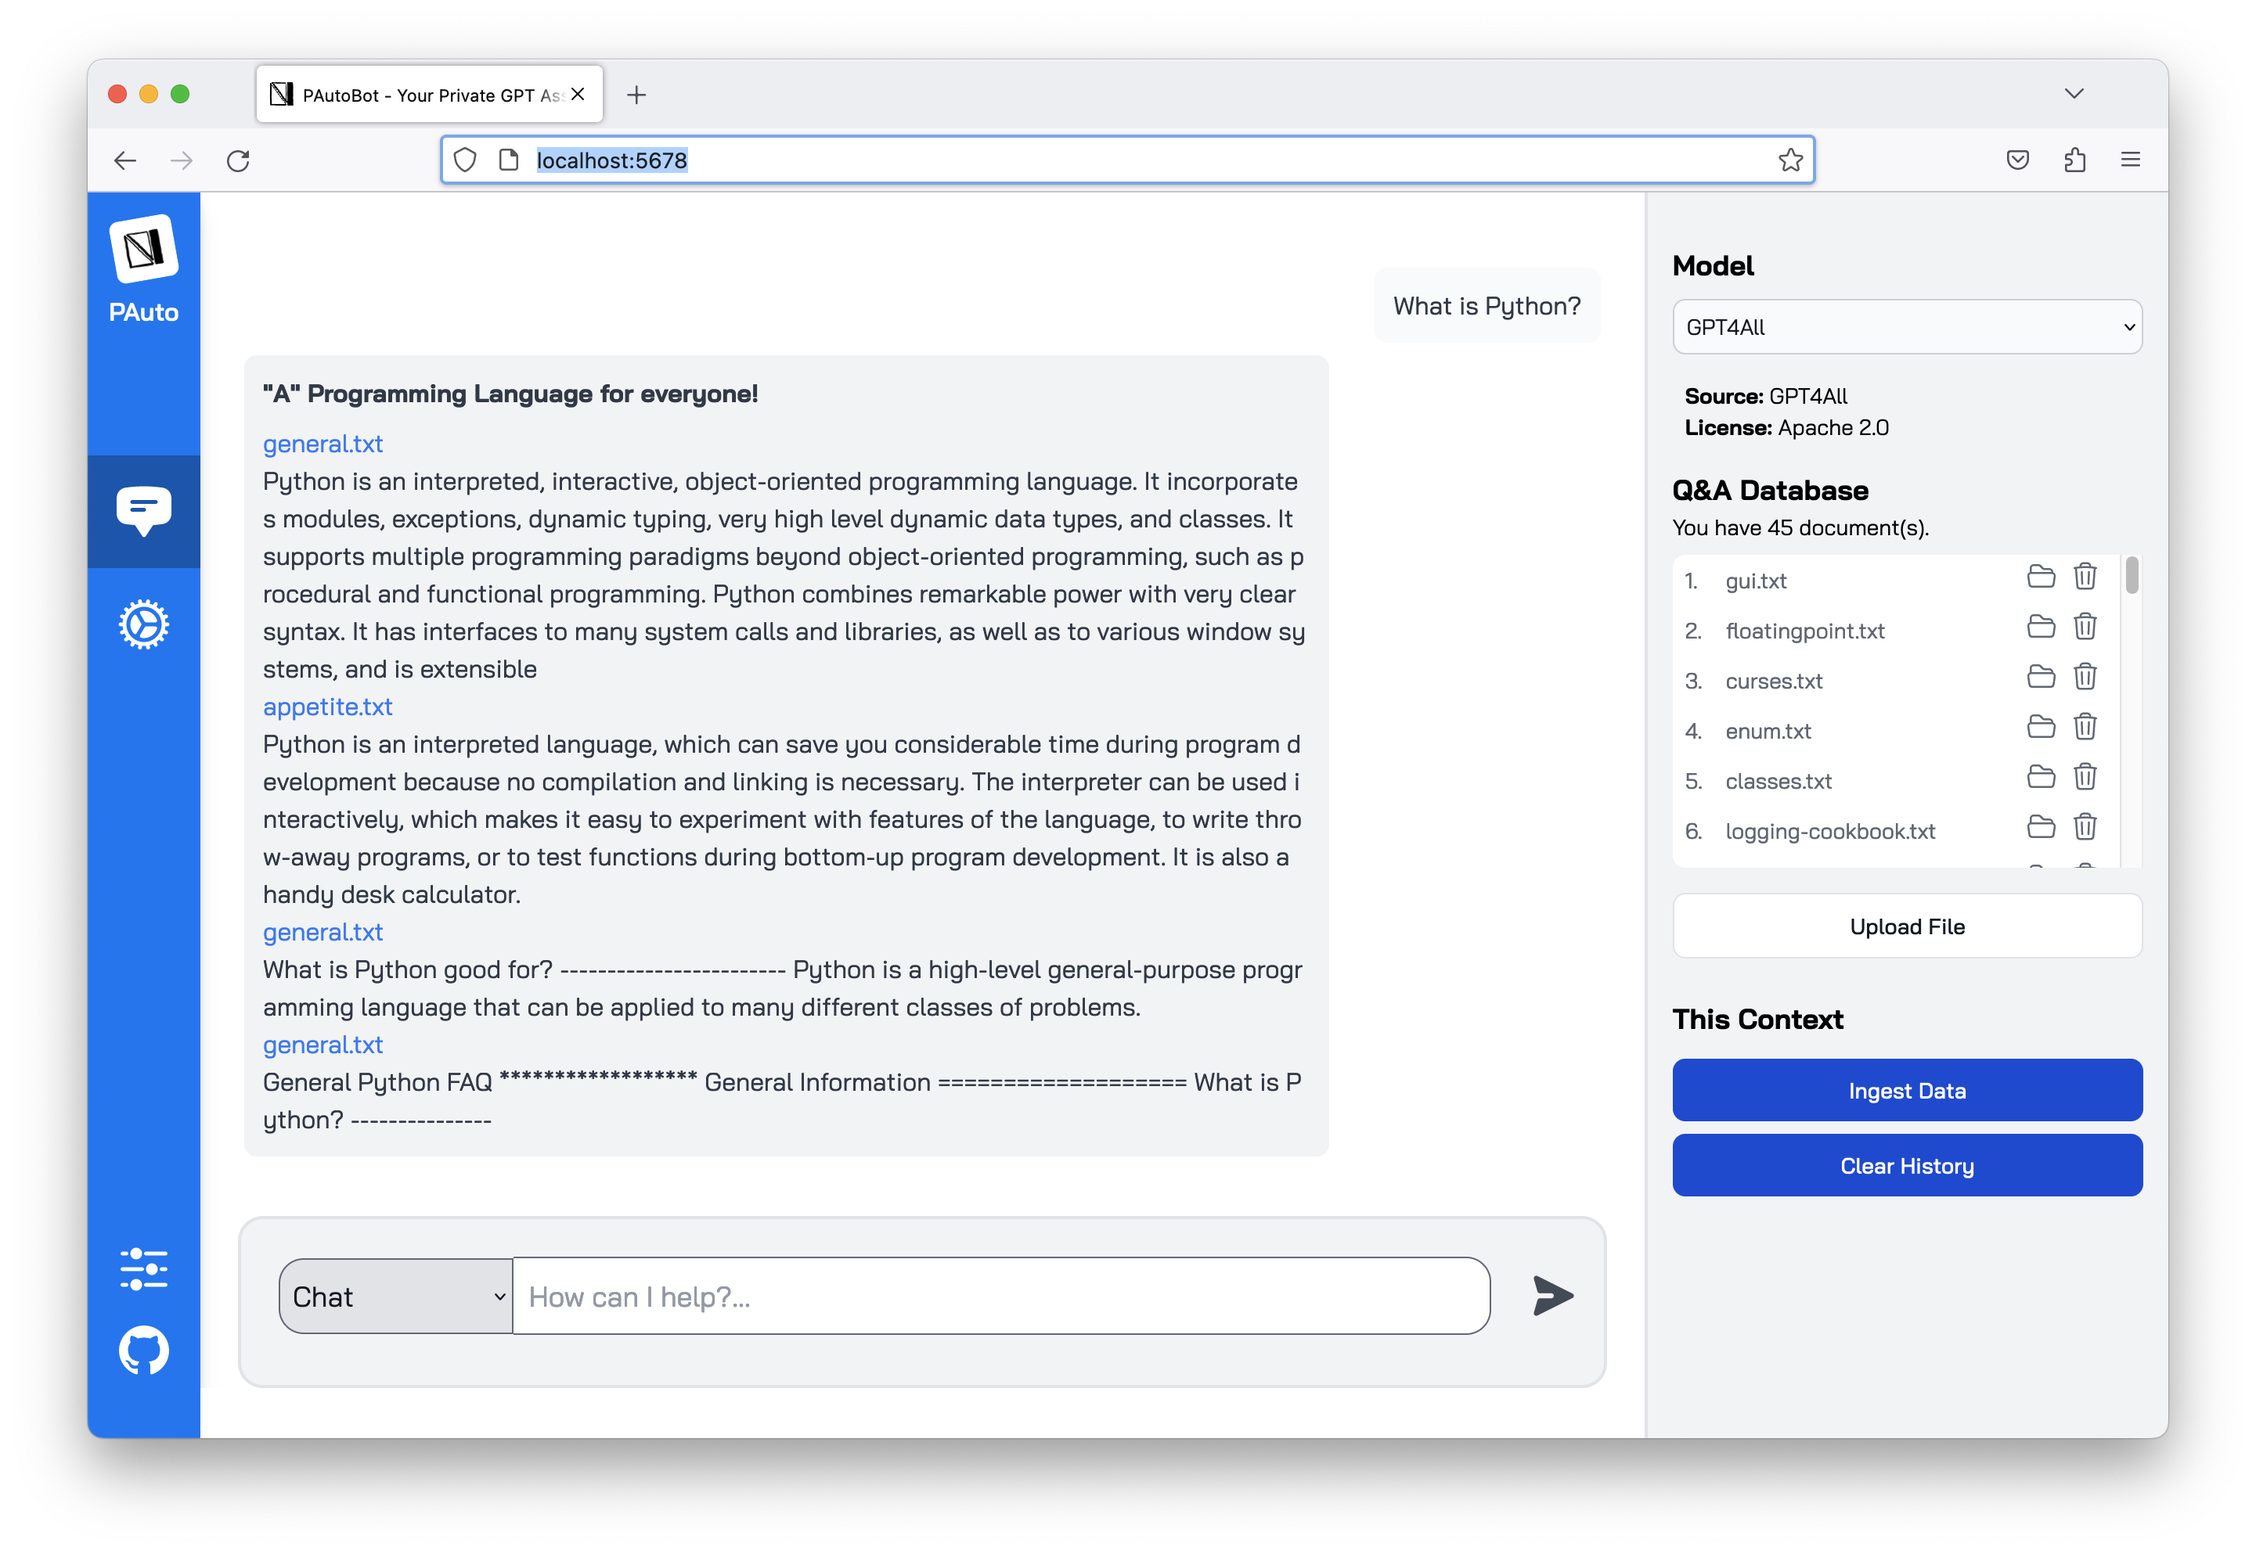
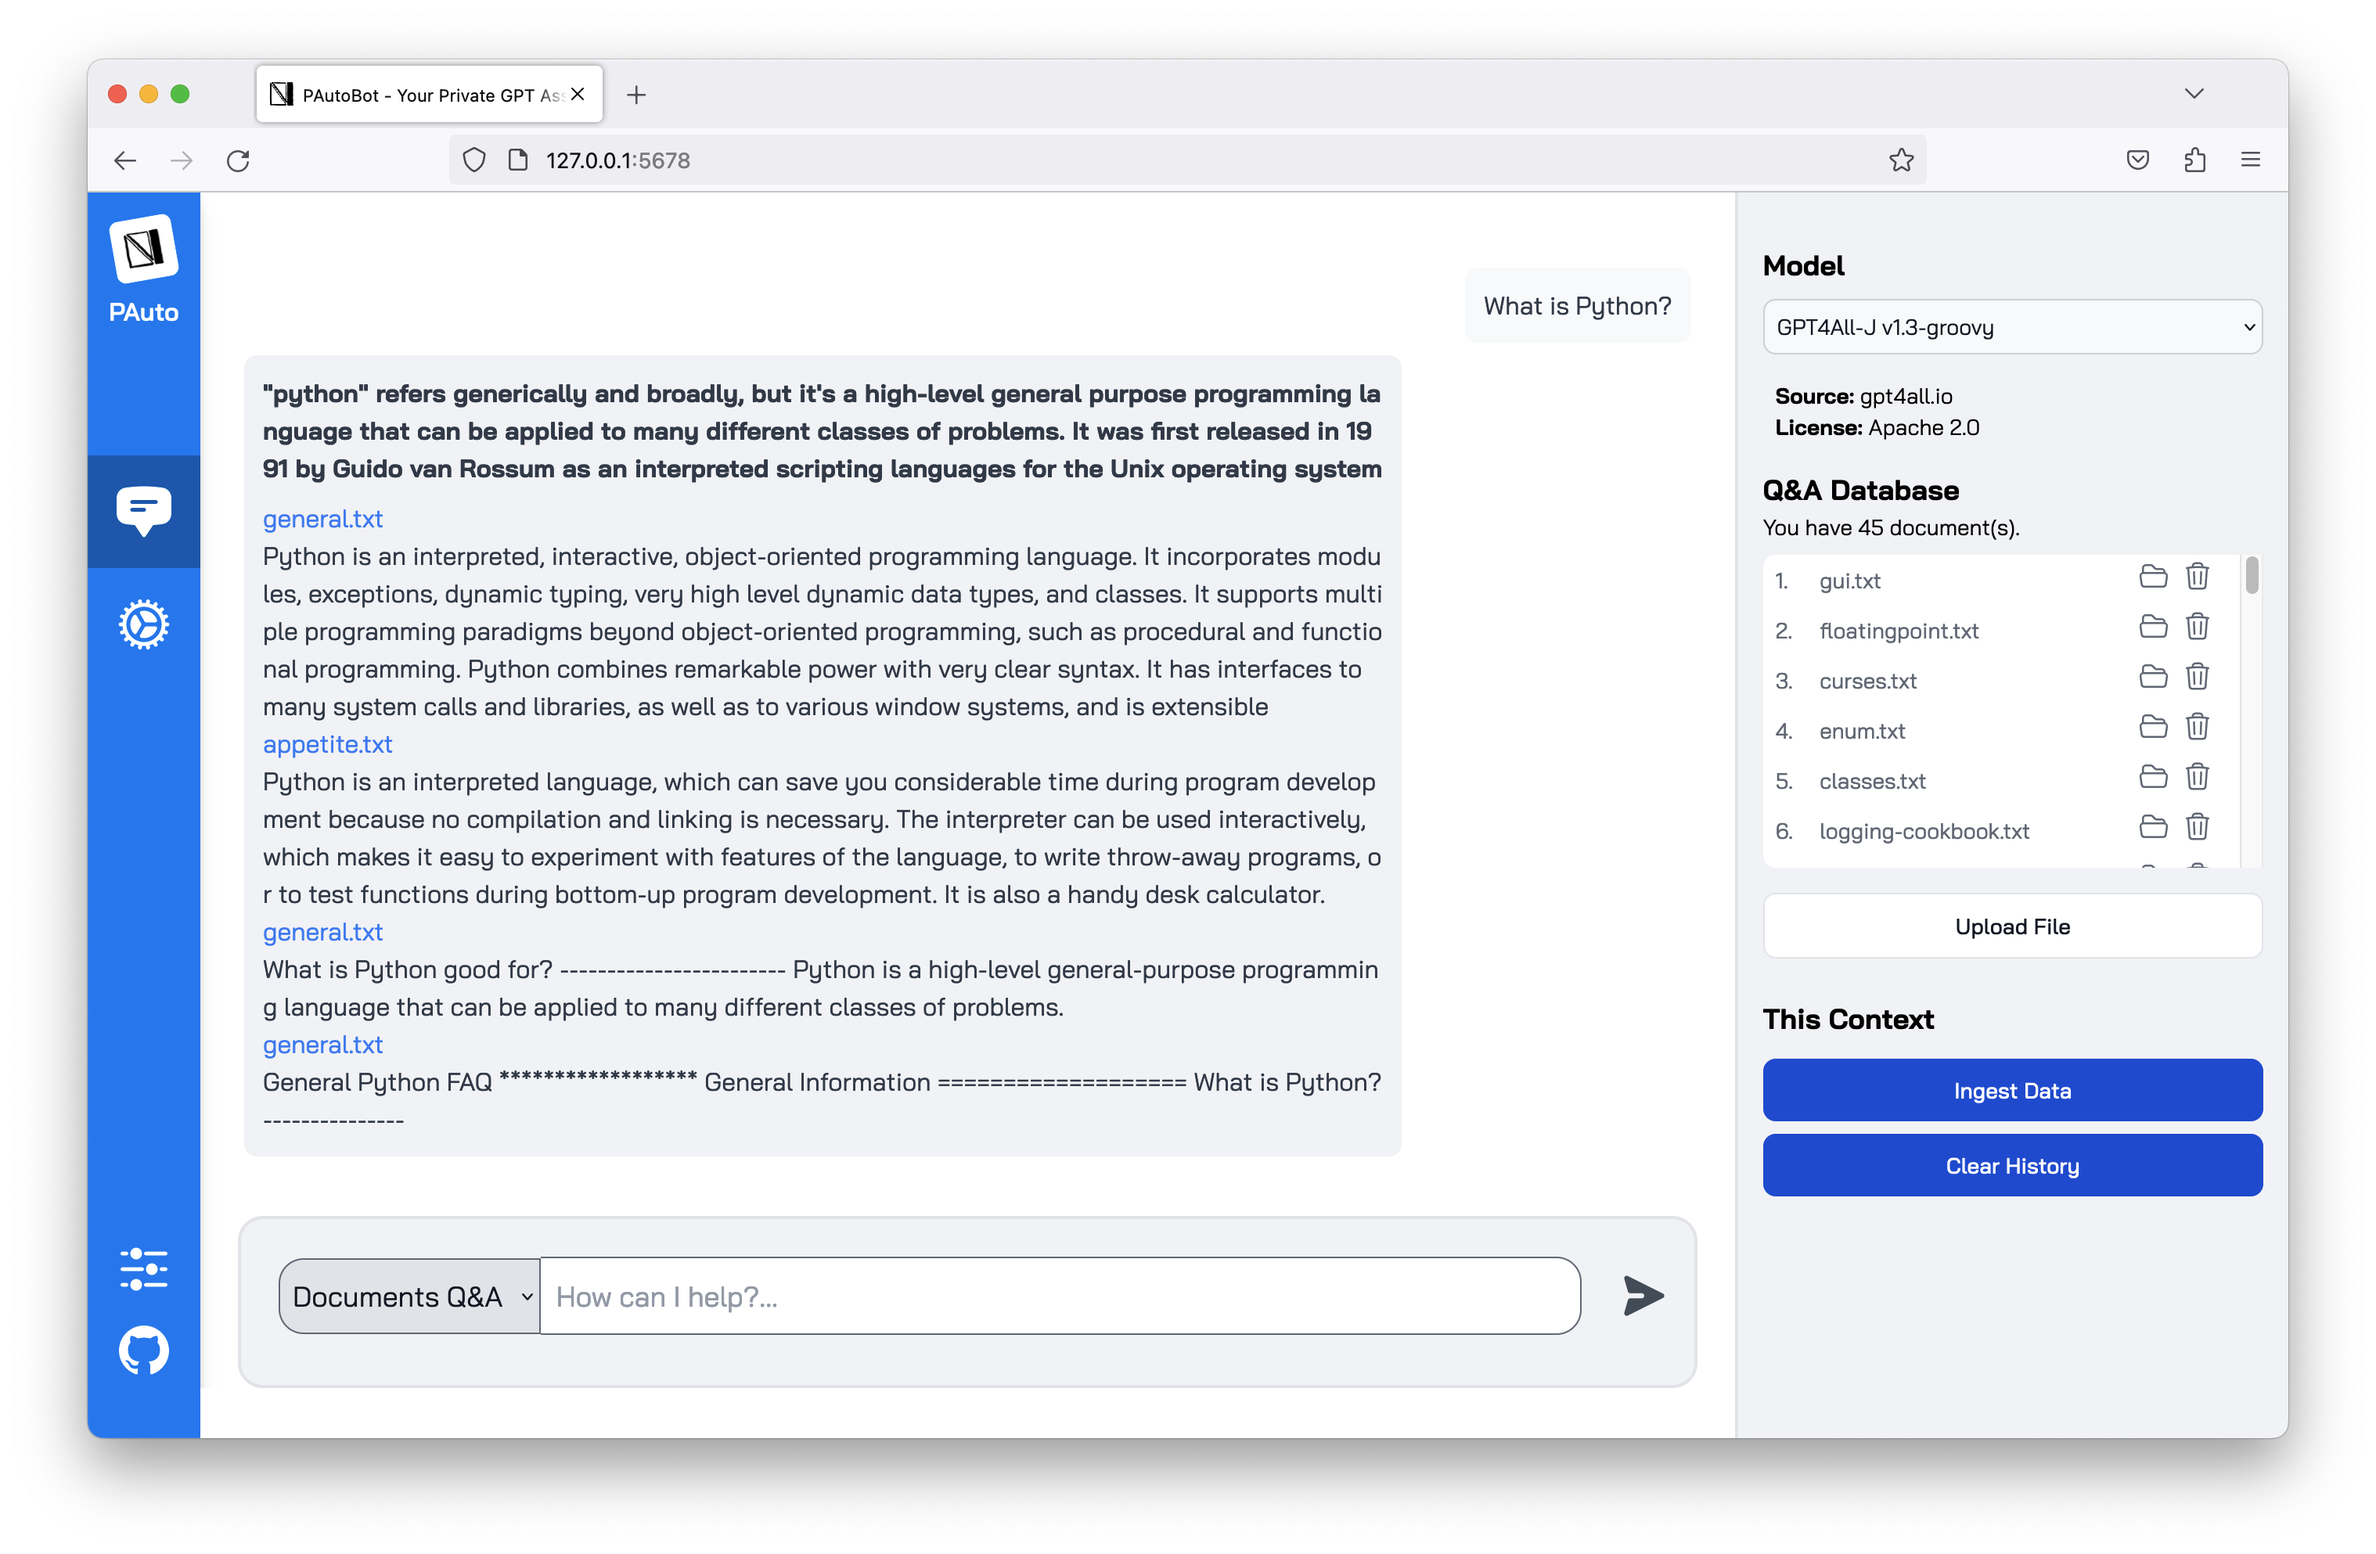
Fix could not ingest due to missing sentence_transformers

diff --git a/frontend/components/NewMessage.js b/frontend/components/NewMessage.js
@@ -1,7 +1,8 @@
 import { useState } from "react";
 
 export default function NewMessage({ onSubmitMessage }) {
-  const [mode, setMode] = useState("CHAT");
+  const defaultMode = "QA";
+  const [mode, setMode] = useState(defaultMode);
   const [message, setMessage] = useState("");
 
   return (
@@ -13,7 +14,7 @@ export default function NewMessage({ onSubmitMessage }) {
         <div className="flex items-center bg-gray-100 pt-6 rounded-2xl overflow-hidden pb-8 px-2 border-2">
           <select
             className="text-lg border-gray-500 text-gray-900 py-3 rounded-l-2xl ml-4 border focus:ring-gray-500 focus:border-gray-500 block w-[200px] px-2 focus:outline-none bg-gray-200"
-            defaultValue={"CHAT"}
+            defaultValue={defaultMode}
             onChange={(e) => setMode(e.target.value)}
           >
             <option value="QA">Documents Q&A</option>

diff --git a/frontend/components/ModelSelector.js b/frontend/components/ModelSelector.js
@@ -5,14 +5,14 @@ export default function ModelSelector() {
       <div className="flex">
         <select
           className="bg-gray-50 border border-gray-300 text-gray-900 text-sm rounded-lg focus:ring-blue-500 focus:border-blue-500 block w-full p-2 mt-2"
-          defaultValue={"GPT4All"}
+          defaultValue={"GPT4All-J v1.3-groovy"}
         >
-          <option value="GPT4All">GPT4All</option>
+          <option value="GPT4All-J v1.3-groovy">GPT4All-J v1.3-groovy</option>
         </select>
       </div>
       <div className="mt-4 ml-2 text-sm">
         <div>
-          <span className="font-bold">Source:</span> GPT4All
+          <span className="font-bold">Source:</span> <a href="https://gpt4all.io/index.html" target="_blank" rel="noreferrer">gpt4all.io</a>
         </div>
         <div>
           <span className="font-bold">License:</span> Apache 2.0

diff --git a/frontend/components/ContextManager.js b/frontend/components/ContextManager.js
@@ -15,9 +15,6 @@ export default function ModelSelector() {
           onClick={() => {
             toast.info("Ingesting data...");
             ingestData(0)
-              .then(() => {
-                toast.success("All data has been ingested!");
-              })
               .catch((error) => {
                 toast.error(error);
               });

diff --git a/pautobot/engine/engine.py b/pautobot/engine/engine.py
@@ -85,8 +85,8 @@ class PautoBotEngine:
                 llm=self.llm,
             )
         except Exception as e:
-            logging.info(f"Error while ingesting documents: {e}")
-            logging.info("Switching to chat mode...")
+            logging.error(f"Error while ingesting documents: {e}")
+            logging.error("Switching to chat mode...")
             self.qa_instance_error = "Error while ingesting documents!"
         finally:
             self.is_ingesting_data = False

diff --git a/setup.py b/setup.py
@@ -35,6 +35,7 @@ def get_install_requires():
         "fastapi==0.96.0",
         "SQLAlchemy==2.0.15",
         "alembic==1.11.1",
+        "sentence_transformers==2.2.2",
         "requests",
     ]
 

diff --git a/pautobot/app_info.py b/pautobot/app_info.py
@@ -2,4 +2,4 @@ __appname__ = "PautoBot"
 __description__ = (
     "Private AutoGPT Robot - Your private task assistant with GPT!"
 )
-__version__ = "0.0.24"
+__version__ = "0.0.25"

diff --git a/pautobot/app.py b/pautobot/app.py
@@ -1,6 +1,9 @@
+import os
+
+os.environ["TOKENIZERS_PARALLELISM"] = "false"
+
 import argparse
 import logging
-import os
 
 import uvicorn
 from fastapi import FastAPI
